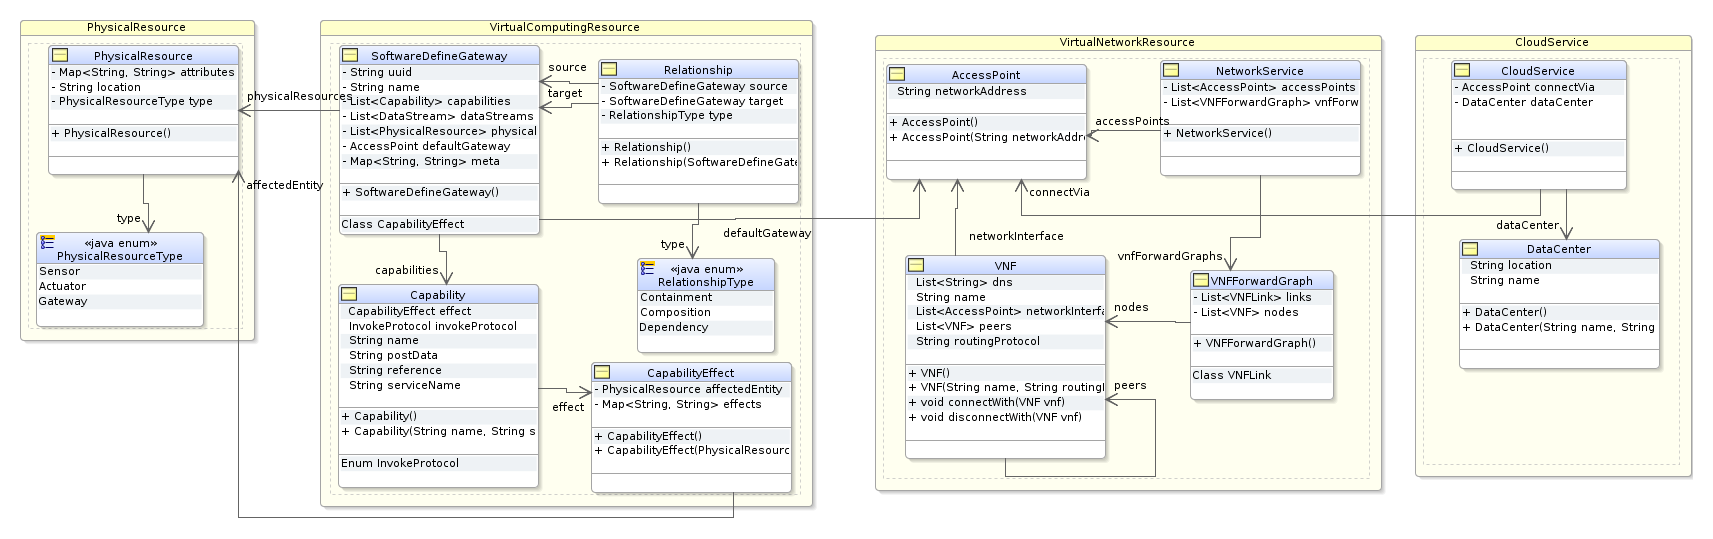
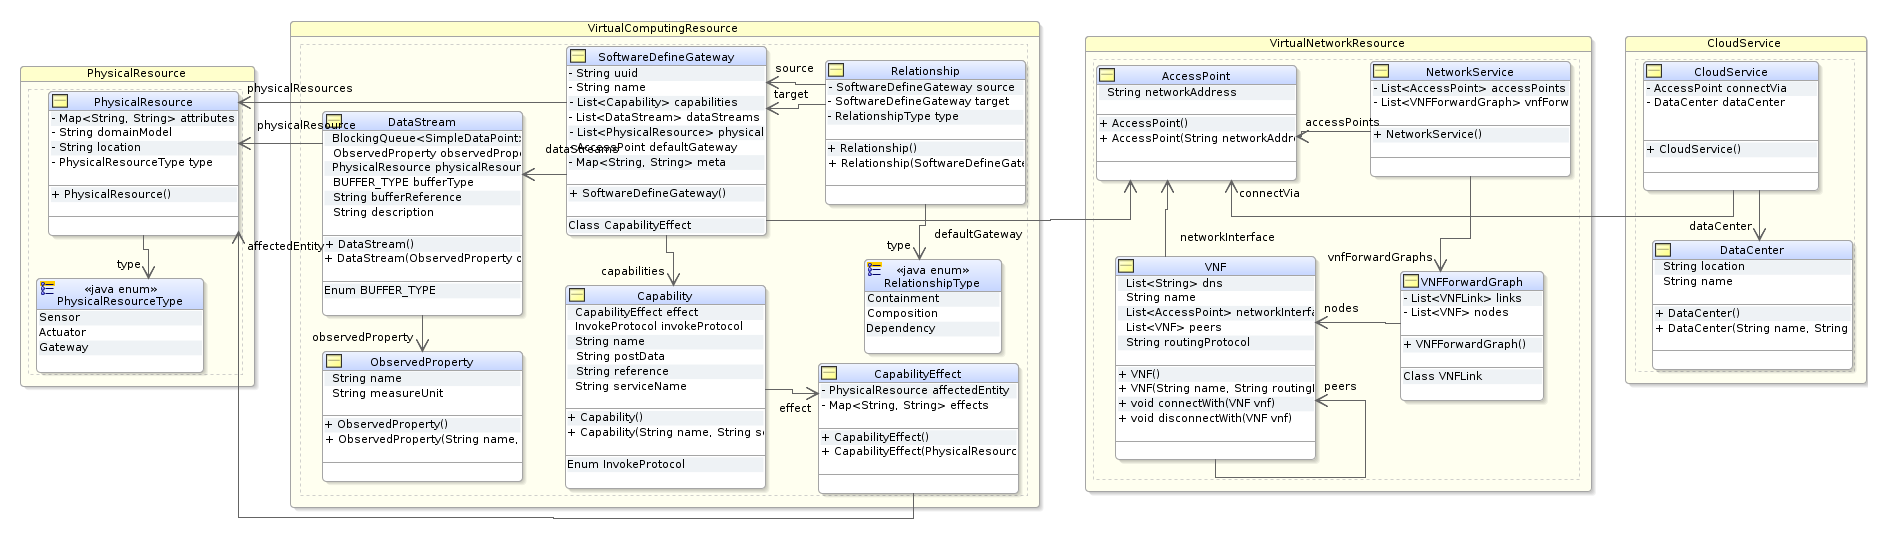
refine physical resource

Changed region(s): [[0.0, 0.0297, 0.9901, 0.9796]]

diff --git a/information-management/model/src/main/java/at/ac/tuwien/dsg/cloud/salsa/model/PhysicalResource/PhysicalResource.java b/information-management/model/src/main/java/at/ac/tuwien/dsg/cloud/salsa/model/PhysicalResource/PhysicalResource.java
@@ -13,6 +13,8 @@ public class PhysicalResource {
     private String location;
 
     private Map<String, String> attributes;
+    
+    private String domainModel;
 
     public PhysicalResource() {
     }

diff --git a/information-management/model/src/main/java/at/ac/tuwien/dsg/cloud/salsa/model/PhysicalResource/Actuator.java b/information-management/model/src/main/java/at/ac/tuwien/dsg/cloud/salsa/model/PhysicalResource/Actuator.java
@@ -1,0 +1,7 @@
+package at.ac.tuwien.dsg.cloud.salsa.model.PhysicalResource;
+
+public class Actuator {
+    public Actuator() {
+        super();
+    }
+}

diff --git a/information-management/model/src/main/java/at/ac/tuwien/dsg/cloud/salsa/model/PhysicalResource/Gateway.java b/information-management/model/src/main/java/at/ac/tuwien/dsg/cloud/salsa/model/PhysicalResource/Gateway.java
@@ -1,0 +1,7 @@
+package at.ac.tuwien.dsg.cloud.salsa.model.PhysicalResource;
+
+public class Gateway {
+    public Gateway() {
+        super();
+    }
+}

diff --git a/information-management/model/src/main/java/at/ac/tuwien/dsg/cloud/salsa/model/PhysicalResource/Sensor.java b/information-management/model/src/main/java/at/ac/tuwien/dsg/cloud/salsa/model/PhysicalResource/Sensor.java
@@ -1,0 +1,7 @@
+package at.ac.tuwien.dsg.cloud.salsa.model.PhysicalResource;
+
+public class Sensor {
+    public Sensor() {
+        super();
+    }
+}
